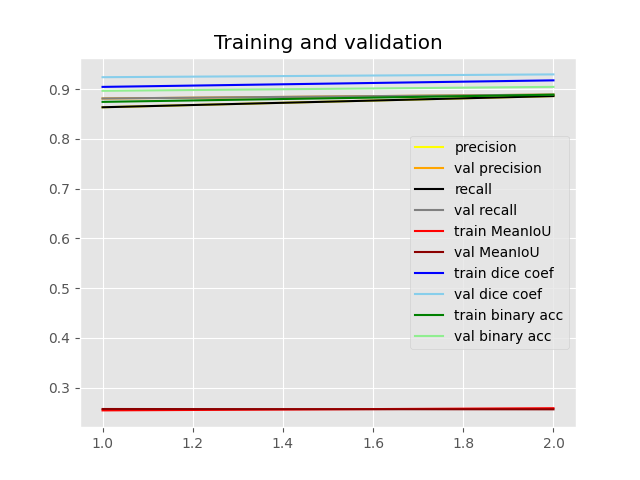
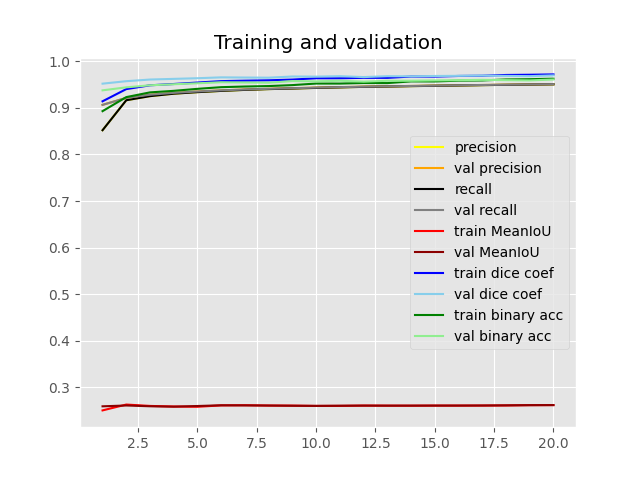
update

diff --git a/model_transfer_learning/pred_pspnet.py b/model_transfer_learning/pred_pspnet.py
@@ -1,0 +1,38 @@
+# coding: utf-8
+# -*- coding: utf-8 -*-
+import os
+################ CPU only ##############
+os.environ["CUDA_VISIBLE_DEVICES"] = "-1"
+########################################
+from keras_segmentation.models.model_utils import transfer_weights
+from keras_segmentation.pretrained import  resnet_pspnet_VOC12_v0_1, pspnet_101_cityscapes
+from keras_segmentation.models.pspnet import resnet50_pspnet, pspnet_101
+
+n_classes = 2
+#model = vgg_unet(n_classes=n_classes ,  input_height=512, input_width=512)
+
+pred_dir='/home/GDDC-CV1/Desktop/data_1024/pred_x_presentation/'
+out_dir='/home/GDDC-CV1/Desktop/pred_out_pred-function'
+checkpoints_path='/home/GDDC-CV1/Desktop/CV-Semantic-Segmentation/model_transfer_learning/checkpoint/'
+
+pretrained_model = pspnet_101_cityscapes()
+new_model = pspnet_101(n_classes=n_classes)
+transfer_weights( pretrained_model , new_model  )
+model = pspnet_101(n_classes=n_classes)
+
+
+out = model.predict_multiple(
+    inp_dir=pred_dir,
+    out_dir=out_dir,
+    checkpoints_path=checkpoints_path
+    )
+
+
+'''
+model=None, inps=None, inp_dir=None, out_dir=None,
+                     checkpoints_path=None, overlay_img=False,
+                     class_names=None, show_legends=False, colors=class_colors,
+                     prediction_width=None, prediction_height=None)
+'''
+
+

diff --git a/model_transfer_learning/fine_tune_pspnet_cityscape.py b/model_transfer_learning/fine_tune_pspnet_cityscape.py
@@ -11,7 +11,7 @@ from tensorflow.keras.optimizers import Adam
 
 
 #### local path
-epoch=20
+epoch=50
 checkpoints_path='/home/GDDC-CV1/Desktop/CV-Semantic-Segmentation/model_transfer_learning/checkpoint/pspnet_weight'
 batch_size=4
 validate=True
@@ -30,13 +30,13 @@ steps_per_epoch=512
 val_steps_per_epoch=512
 gen_use_multiprocessing=False
 ignore_zero_class=False
-lr=0.0001
+lr=0.00001
 optimizer_name=Adam(lr=lr, decay=1e-6)
 do_augment=False
 augmentation_name="aug_all"
 pred_dir='/home/GDDC-CV1/Desktop/data_1024/pred_x_presentation/'
 out_dir='/home/GDDC-CV1/Desktop/pred_out/'
-
+patience=10
 
 #### physical GPU (device: 0, name: Tesla V100-PCIE-16GB, pci bus id: f114:00:00.0, compute capability: 7.0) ####
 pretrained_model = pspnet_101_cityscapes()
@@ -54,7 +54,8 @@ new_model.train(
     val_annotations=val_annotations,
     val_batch_size=batch_size,
     auto_resume_checkpoint=auto_resume_checkpoint,
-    optimizer_name = optimizer_name
+    optimizer_name = optimizer_name,
+    patience = patience
 )
 
 out = new_model.predict_multiple(
